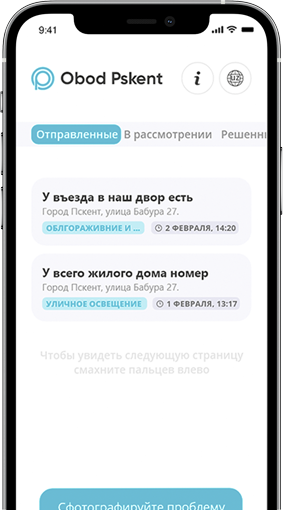
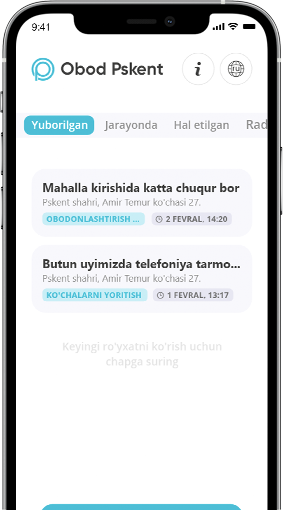
Hope last update

diff --git a/js/localization.js b/js/localization.js
@@ -30,6 +30,9 @@ function switchLang() {
     document.getElementById('privacy').innerHTML = 'Политика конфиденциальности '
     document.getElementById('terms').innerHTML = ' Условия использования'
 
+    
+    document.getElementById('introImgOne').src = './image/hero-phone-1_rus.png'
+    document.getElementById('introImgTwo').src = './image/hero-phone-2_rus.png'
     document.getElementById('imgOne').src = './image/one_rus.png'
     document.getElementById('imgTwo').src = './image/two_rus.png'
     document.getElementById('imgThree').src = './image/three_rus.png'
@@ -67,6 +70,8 @@ function switchLang() {
     document.getElementById('privacy').innerHTML = 'Maxfiylik siyosati '
     document.getElementById('terms').innerHTML = ' Foydalanish shartlari'
 
+    document.getElementById('introImgOne').src = './image/hero-phone-1.png'
+    document.getElementById('introImgTwo').src = './image/hero-phone-2.png'
     document.getElementById('imgOne').src = './image/one.png'
     document.getElementById('imgTwo').src = './image/two.png'
     document.getElementById('imgThree').src = './image/three.png'

diff --git a/index.html b/index.html
@@ -78,10 +78,10 @@
             <div class="col-md-4 col-lg-5 col-xl-6 col-10 mb--30 mb-md--0 order-1 order-md-2">
               <div class="hero-image position-relative">
                   <div class="absolute-image image-1 d-none d-lg-block" data-aos="fade-left" data-aos-duration="1500"  data-aos-delay="300" data-aos-once="true">
-                      <img src="./image/hero-phone-1.png" alt="">
+                      <img id="introImgOne" alt="">
                   </div>
                   <div class="absolute-image image-2 d-none d-lg-block">
-                        <img src="./image/hero-phone-2.png" alt="">
+                        <img id="introImgTwo" alt="">
                   </div>
                 <div class="image-mobile d-lg-none">
                     <img src="image/Phone_Images.png" alt="" />
